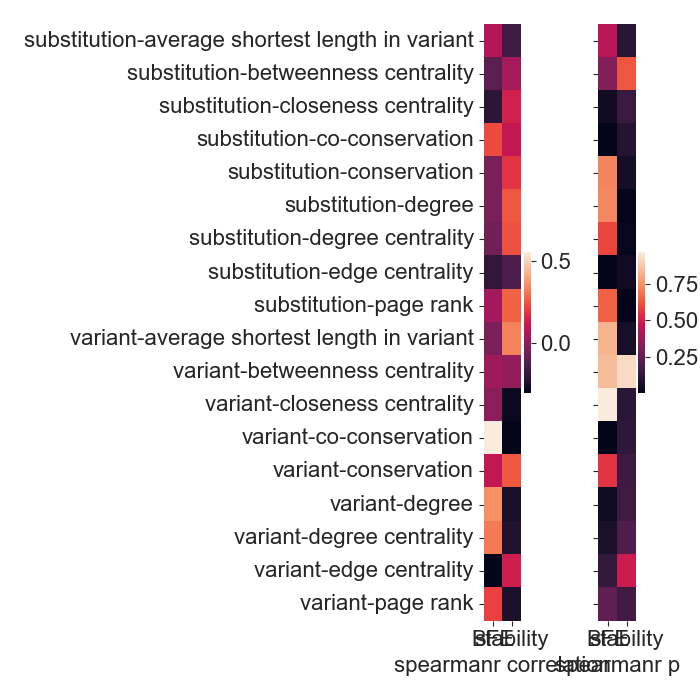
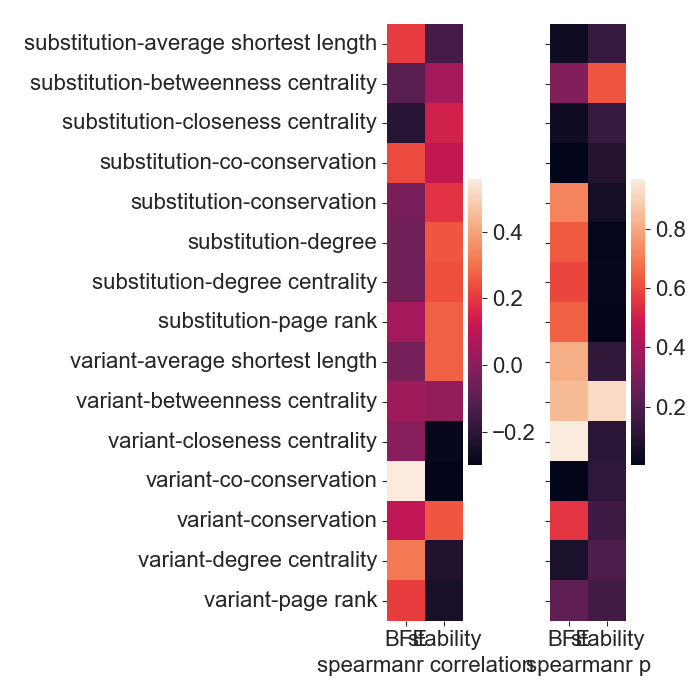
update combine result

diff --git a/v2/combine_with_other_tools.py b/v2/combine_with_other_tools.py
@@ -349,8 +349,8 @@ class CombineResult:
         all_cor = all_cor.rename(
             {"co-substitution": "substitution", "variant (single)": "variant", "variant (co)": "variant"}, level=0,
             axis=0)
-        all_cor = all_cor.drop(["degree", "average weighted degree", "conservation", "average shortest length in sampled data"], level=2, axis=0)
-        all_cor = all_cor.rename({"weighted degree": "degree", "normalized conservation": "conservation"})
+        # all_cor = all_cor.drop(["degree", "average weighted degree", "conservation", "average shortest length in sampled data"], level=2, axis=0)
+        # all_cor = all_cor.rename({"weighted degree": "degree", "normalized conservation": "conservation"})
 
         # 统计两种相关性的个数
         # spearmanr 比较多
@@ -451,10 +451,10 @@ class CombineResult:
             all_cor_sorted_valid["spearmanr correlation"].astype(int).abs() != 1]
 
         # 格式化结果
-        all_cor_sorted_valid = all_cor_sorted_valid.drop(["degree", "average weighted degree", "conservation", "average shortest length in sampled data"], level=1,
-                                                         axis=0)
-        all_cor_sorted_valid = all_cor_sorted_valid.rename(
-            {"weighted degree": "degree", "normalized conservation": "conservation", "average shortest length in variant": "average shortest length"})
+        # all_cor_sorted_valid = all_cor_sorted_valid.drop(["degree", "average weighted degree", "conservation", "average shortest length in sampled data"], level=1,
+        #                                                  axis=0)
+        # all_cor_sorted_valid = all_cor_sorted_valid.rename(
+        #     {"weighted degree": "degree", "normalized conservation": "conservation", "average shortest length in variant": "average shortest length"})
         all_cor_sorted_valid.index.names = ["Kind", "Network characteristic"]
         all_cor_sorted_valid.columns = map(lambda x: x[0].upper() + x[1:], all_cor_sorted_valid.columns)
 
@@ -578,11 +578,11 @@ if __name__ == '__main__':
     # co_info = cr.analysis_co_mutations()
 
     # 分析毒株
-    cr.analysis_variant()
+    # cr.analysis_variant()
 
     # 解析结果
-    # CombineResult.parse_result()
-    # CombineResult.parse_variant_result()
+    CombineResult.parse_result()
+    CombineResult.parse_variant_result()
 
     # 绘制散点图
     # CombineResult.plot_correlation_scatter()
